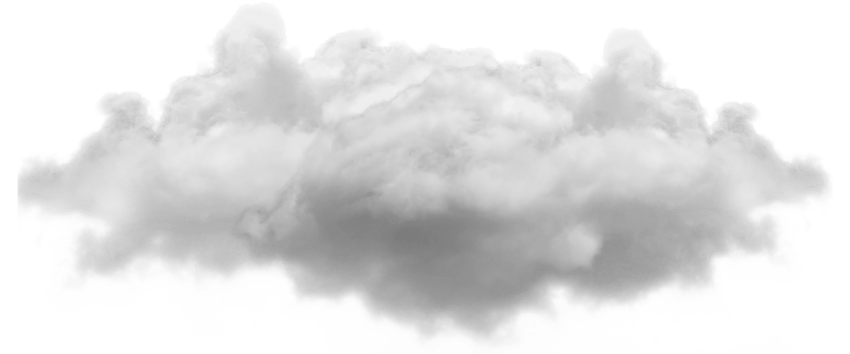
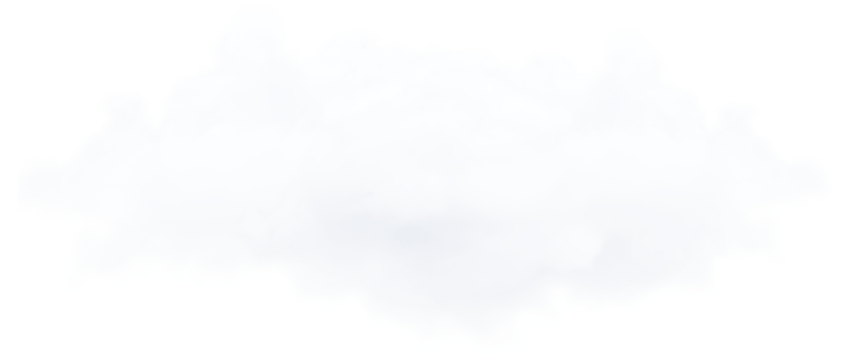
Add infos stickers + new clouds

diff --git a/components/Stickers/Rewards/Slider.vue b/components/Stickers/Rewards/Slider.vue
@@ -1,5 +1,8 @@
 <template>
-  <div class="rewards-slider">
+  <div
+    ref="base"
+    class="rewards-slider"
+  >
     <button
       class="rewards-slider__button"
       @click="slider.prev()"
@@ -27,6 +30,9 @@
           'keen-slider__slide': true,
           'is-hide': !stickers.state.like_a_boss,
         }"
+        data-sport="boss"
+        @mouseenter="showInfos"
+        @mouseleave="hideInfos"
       >
         <img
           src="/stickers/like_a_boss.png"
@@ -37,6 +43,10 @@
           'keen-slider__slide': true,
           'is-hide': !stickers.state.wingsuit.includes(1)
         }"
+        data-sport="wingsuit"
+        data-level="top"
+        @mouseenter="showInfos"
+        @mouseleave="hideInfos"
       >
         <img
           src="/stickers/1-wingsuit.png"
@@ -47,6 +57,10 @@
           'keen-slider__slide': true,
           'is-hide': !stickers.state.wingsuit.includes(2)
         }"
+        data-sport="wingsuit"
+        data-level="mid"
+        @mouseenter="showInfos"
+        @mouseleave="hideInfos"
       >
         <img
           src="/stickers/2-wingsuit.png"
@@ -57,6 +71,10 @@
           'keen-slider__slide': true,
           'is-hide': !stickers.state.wingsuit.includes(3)
         }"
+        data-sport="wingsuit"
+        data-level="bot"
+        @mouseenter="showInfos"
+        @mouseleave="hideInfos"
       >
         <img
           src="/stickers/3-wingsuit.png"
@@ -67,6 +85,10 @@
           'keen-slider__slide': true,
           'is-hide': !stickers.state.ski.includes(1)
         }"
+        data-sport="ski"
+        data-level="top"
+        @mouseenter="showInfos"
+        @mouseleave="hideInfos"
       >
         <img
           src="/stickers/1-ski.png"
@@ -77,6 +99,10 @@
           'keen-slider__slide': true,
           'is-hide': !stickers.state.ski.includes(2)
         }"
+        data-sport="ski"
+        data-level="mid"
+        @mouseenter="showInfos"
+        @mouseleave="hideInfos"
       >
         <img
           src="/stickers/2-ski.png"
@@ -87,6 +113,10 @@
           'keen-slider__slide': true,
           'is-hide': !stickers.state.ski.includes(3)
         }"
+        data-sport="ski"
+        data-level="bot"
+        @mouseenter="showInfos"
+        @mouseleave="hideInfos"
       >
         <img
           src="/stickers/3-ski.png"
@@ -97,6 +127,10 @@
           'keen-slider__slide': true,
           'is-hide': !stickers.state.kayak.includes(1)
         }"
+        data-sport="kayak"
+        data-level="top"
+        @mouseenter="showInfos"
+        @mouseleave="hideInfos"
       >
         <img
           src="/stickers/1-kayak.png"
@@ -107,6 +141,10 @@
           'keen-slider__slide': true,
           'is-hide': !stickers.state.kayak.includes(2)
         }"
+        data-sport="kayak"
+        data-level="mid"
+        @mouseenter="showInfos"
+        @mouseleave="hideInfos"
       >
         <img
           src="/stickers/2-kayak.png"
@@ -117,6 +155,10 @@
           'keen-slider__slide': true,
           'is-hide': !stickers.state.kayak.includes(3)
         }"
+        data-sport="kayak"
+        data-level="bot"
+        @mouseenter="showInfos"
+        @mouseleave="hideInfos"
       >
         <img
           src="/stickers/3-kayak.png"
@@ -140,6 +182,16 @@
         />
       </svg>
     </button>
+    <div
+      class="stickers-infos"
+      :class="{'is-visible': isInfosVisible}"
+    >
+      <div class="animate-infos">
+        <div class="infos-text">
+          <p v-text="textInfos" />
+        </div>
+      </div>
+    </div>
   </div>
 </template>
 
@@ -148,6 +200,17 @@ import { useKeenSlider } from 'keen-slider/vue.es'
 import 'keen-slider/keen-slider.min.css'
 import WheelControls from '~/js/slider-plugin/wheel.js'
 import useStickers from '~~/stores/stickers'
+import { useMouseInElement } from '@vueuse/core'
+import RAFManager from '~~/webgl/Utils/RAFManager';
+import { clampedMap } from '~~/webgl/Utils/Math';
+import { lerp } from '~~/webgl/Utils/Lerp';
+
+const textInfos = ref()
+const base = ref()
+const isInfosVisible = ref(false)
+
+let y = 0;
+let lerpY = 0
 
 const stickers = useStickers()
 
@@ -168,10 +231,136 @@ const [container, slider] = useKeenSlider({
 
 			// wallah ca fonctionne, demander à Valentin
 			const op = 1 - ((Math.abs(slide.distance / 0.84 - 0.5)) - 0.34) * 6.25
+      if(op <= 0.01) {
+        slideEl.classList.add('not-visible')
+      } else if(op !== 0 && slideEl.classList.contains('not-visible')) {
+        slideEl.classList.remove('not-visible')
+      }
 			slideEl.style.opacity = op
 		});
 	},
 }, [WheelControls])
+
+const infosContent = {
+  boss: {
+    textLocked: "Débloque-le en gagnant tous les stickers",
+    textUnlocked: "Le boss des boss, tu as gagné tous les stickers!"
+  },
+  wingsuit: {
+    top: {
+      textLocked: "Débloque-le en réussissant toutes les actions du wingsuit",
+      textUnlocked: "3/3 de réussite sur le wingsuit"
+    },
+    mid: {
+      textLocked: "Débloque-le en réussissant 2 actions du wingsuit",
+      textUnlocked: "2/3 de réussite sur le wingsuit"
+    },
+    bot: {
+      textLocked: "Locked",
+      textUnlocked: "1/3 de réussite sur le wingsuit"
+    }
+  },
+  ski: {
+    top: {
+      textLocked: "Débloque-le en réussissant toutes les actions du freeride",
+      textUnlocked: "3/3 de réussite sur le freeride"
+    },
+    mid: {
+      textLocked: "Débloque-le en réussissant 2 interactions du freeride",
+      textUnlocked: "2/3 de réussite sur le freeride"
+    },
+    bot: {
+      textLocked: "Locked",
+      textUnlocked: "1/3 de réussite sur le freeride"
+    }
+  },
+  kayak: {
+    top: {
+      textLocked: "Débloque-le en réussissant toutes les actions du kayak",
+      textUnlocked: "3/3 de réussite sur le kayak"
+    },
+    mid: {
+      textLocked: "Débloque-le en réussissant 2 interactions du kayak",
+      textUnlocked: "2/3 de réussite sur le kayak"
+    },
+    bot: {
+      textLocked: "Locked",
+      textUnlocked: "1/3 de réussite sur le kayak"
+    }
+  }
+}
+
+function showInfos(e) {
+
+  const sport = e.target.dataset.sport
+  const level = e.target.dataset.level
+  let index;
+
+  switch (e.target.dataset.level) {
+    case "top":
+      index = 1
+      break;
+
+    case "mid":
+      index = 2
+      break;
+
+    case "bot":
+      index = 3
+      break;
+  }
+
+  if (sport !== "boss" && stickers.state[sport].includes(index)) {
+    textInfos.value = infosContent[sport][level].textUnlocked
+  } else if(sport !== "boss" && !stickers.state[sport].includes(index)) {
+    textInfos.value = infosContent[sport][level].textLocked
+  }
+
+  if(sport === 'boss' && stickers.state.like_a_boss) {
+    textInfos.value = infosContent[sport].textUnlocked
+  } else if(sport === 'boss' && !stickers.state.like_a_boss) {
+    textInfos.value = infosContent[sport].textLocked
+  }
+
+
+  if(!e.target.classList.contains('not-visible')) {
+    startHover()
+    isInfosVisible.value = true
+  }
+}
+
+function hideInfos() {
+  isInfosVisible.value = false
+  removeHover()
+}
+
+function startHover() {
+    const {
+      elementY,
+      elementHeight
+	  } = useMouseInElement(base.value);
+
+    const element = base.value.querySelector('.stickers-infos');
+
+
+    RAFManager.add('stickers-infos', () => {
+      update(elementY, elementHeight, element)
+    })
+  }
+
+  function removeHover() {
+		RAFManager.remove('stickers-infos')
+	}
+
+  function update( elY, elH, element) {
+
+    y = clampedMap(elY.value, 0, elH.value, 0, elY.value);
+
+    lerpY = lerp(lerpY, y, .1)
+
+    element.style.transform = `translateY(${lerpY}px)`;
+
+  }
 </script>
 
 <style lang="scss">
@@ -281,6 +470,46 @@ const [container, slider] = useKeenSlider({
     &:active {
       transform: scale(0.75);
     }
+  }
+}
+
+.stickers-infos {
+  position: absolute;
+  right: -100%;
+  top: 20%;
+  z-index: 3;
+}
+
+.animate-infos {
+  .is-visible & {
+    animation: softBounceOut .5s linear 1 forwards;
+  }
+}
+
+.infos-text {
+  background-color: #EFF3F5;
+  padding: .5rem 1rem;
+  width: 15rem;
+  display: flex;
+  align-items: center;
+  justify-content: center;
+  box-shadow: 5px 5px 5px rgba(0, 0, 0, 0.15);
+  opacity: 0;
+  transform: rotate(10deg) scale(.25);
+  transition: transform .5s ease(out-bounce), opacity .4s ease(out-swift);
+
+  .is-visible & {
+    opacity: 1;
+    transform: rotate(0deg) scale(1);
+  }
+
+  p {
+
+    text-align: center;
+    font-family: const(font-gotham);
+    font-weight: 400;
+    color: colors(black);
+    font-size: 1.3rem;
   }
 }
 </style>

diff --git a/assets/styles/components/animations.scss b/assets/styles/components/animations.scss
@@ -104,3 +104,25 @@
 
 	to { background-position: -4890px }
 }
+
+@keyframes softBounceOut {
+	0% {
+		transform: scale(1, 0.5);
+	}
+
+	25% {
+		transform: scale(1, 1.4);
+	}
+
+	45% {
+		transform: scale(1, 0.9);
+	}
+
+	75% {
+		transform: scale(1, 1.08);
+	}
+
+	100% {
+		transform: scale(1, 1);
+	}
+}
